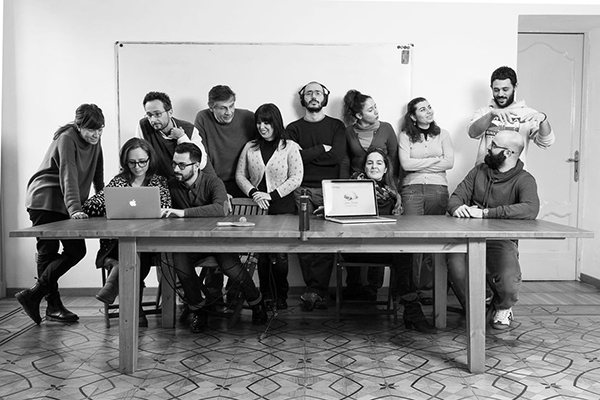
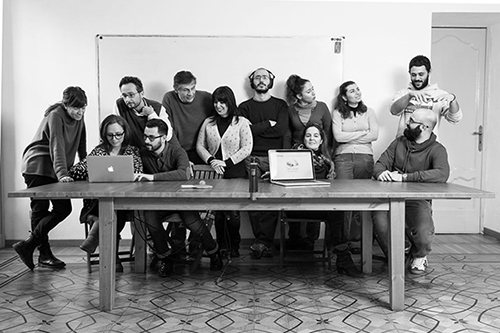
fix images in firefox

diff --git a/app/assets/stylesheets/_base.sass b/app/assets/stylesheets/_base.sass
@@ -102,12 +102,14 @@ legend
   color: $light-body-color
   +heading-font-family
 
+.images-about
+  width: 500px
+
 .divider
   width: 100%
   height: 4px
   background: $bca-primary
   
-
 .grey
   @extend .divider
   background: #D8D8D8

diff --git a/app/assets/stylesheets/blocks/_about.sass b/app/assets/stylesheets/blocks/_about.sass
@@ -1,4 +1,6 @@
 .hero__about
   background-image: image-url('mamma.jpg')   
   background-position: top center
-  
+
+.images-about
+  width: 500px
